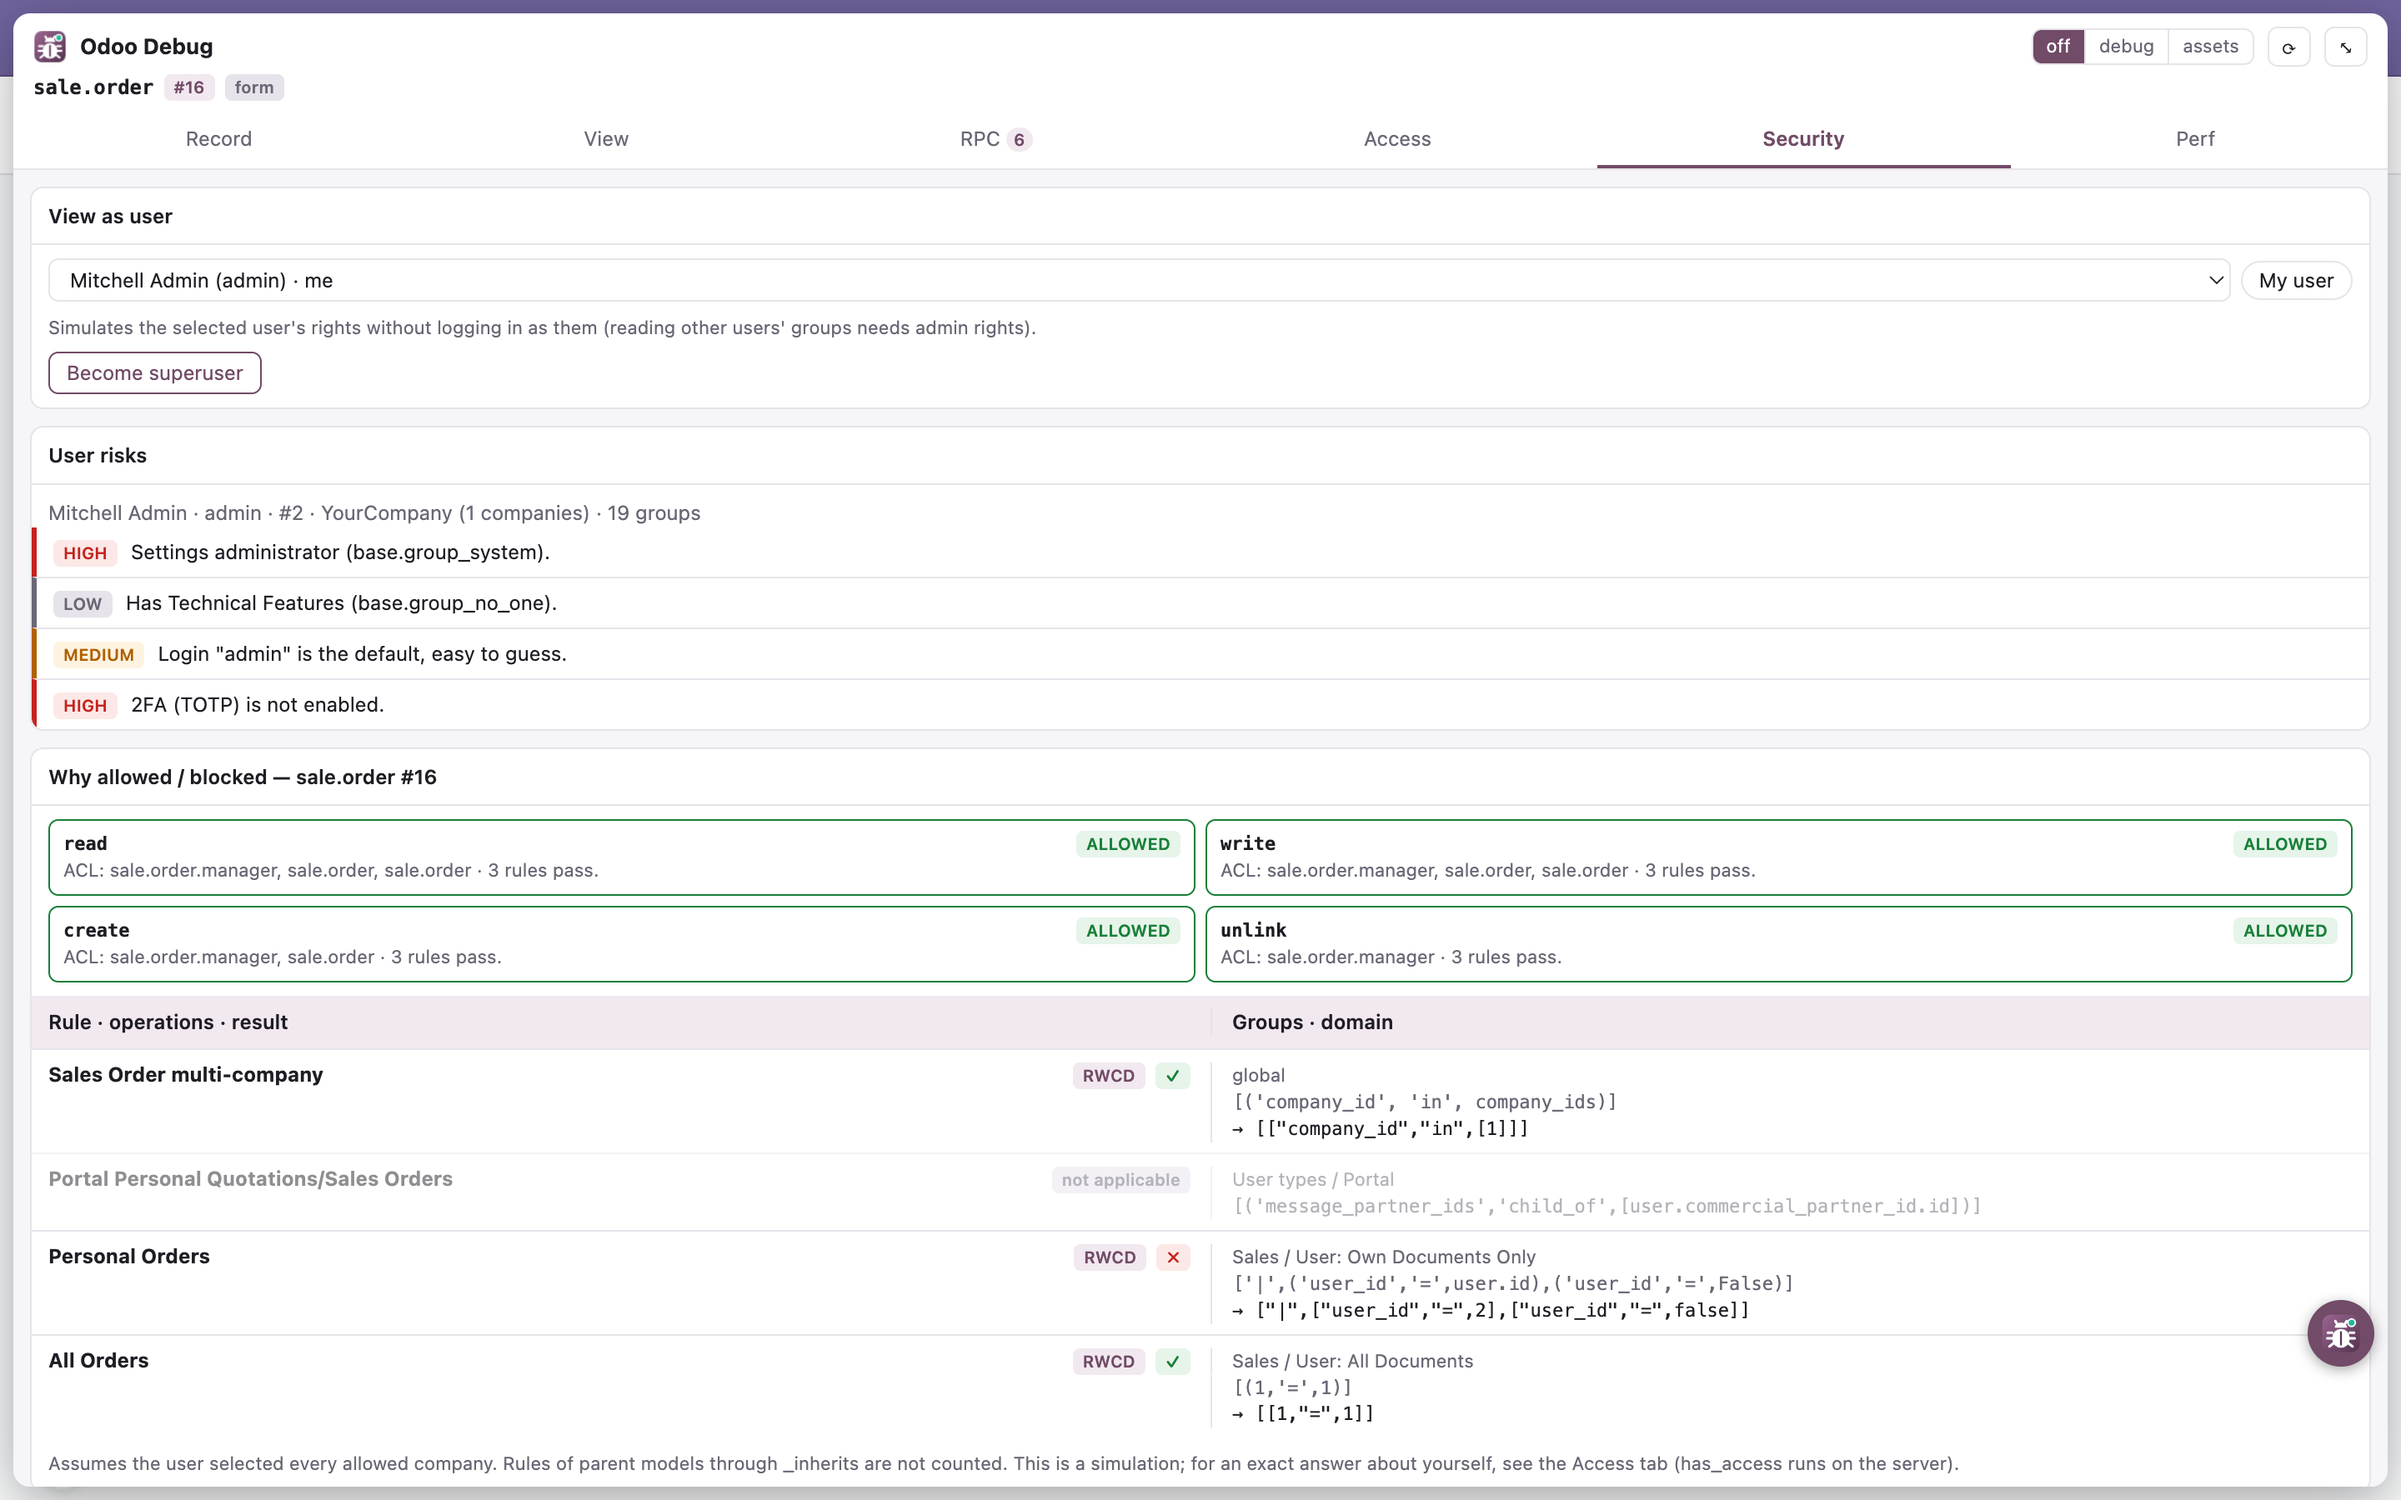
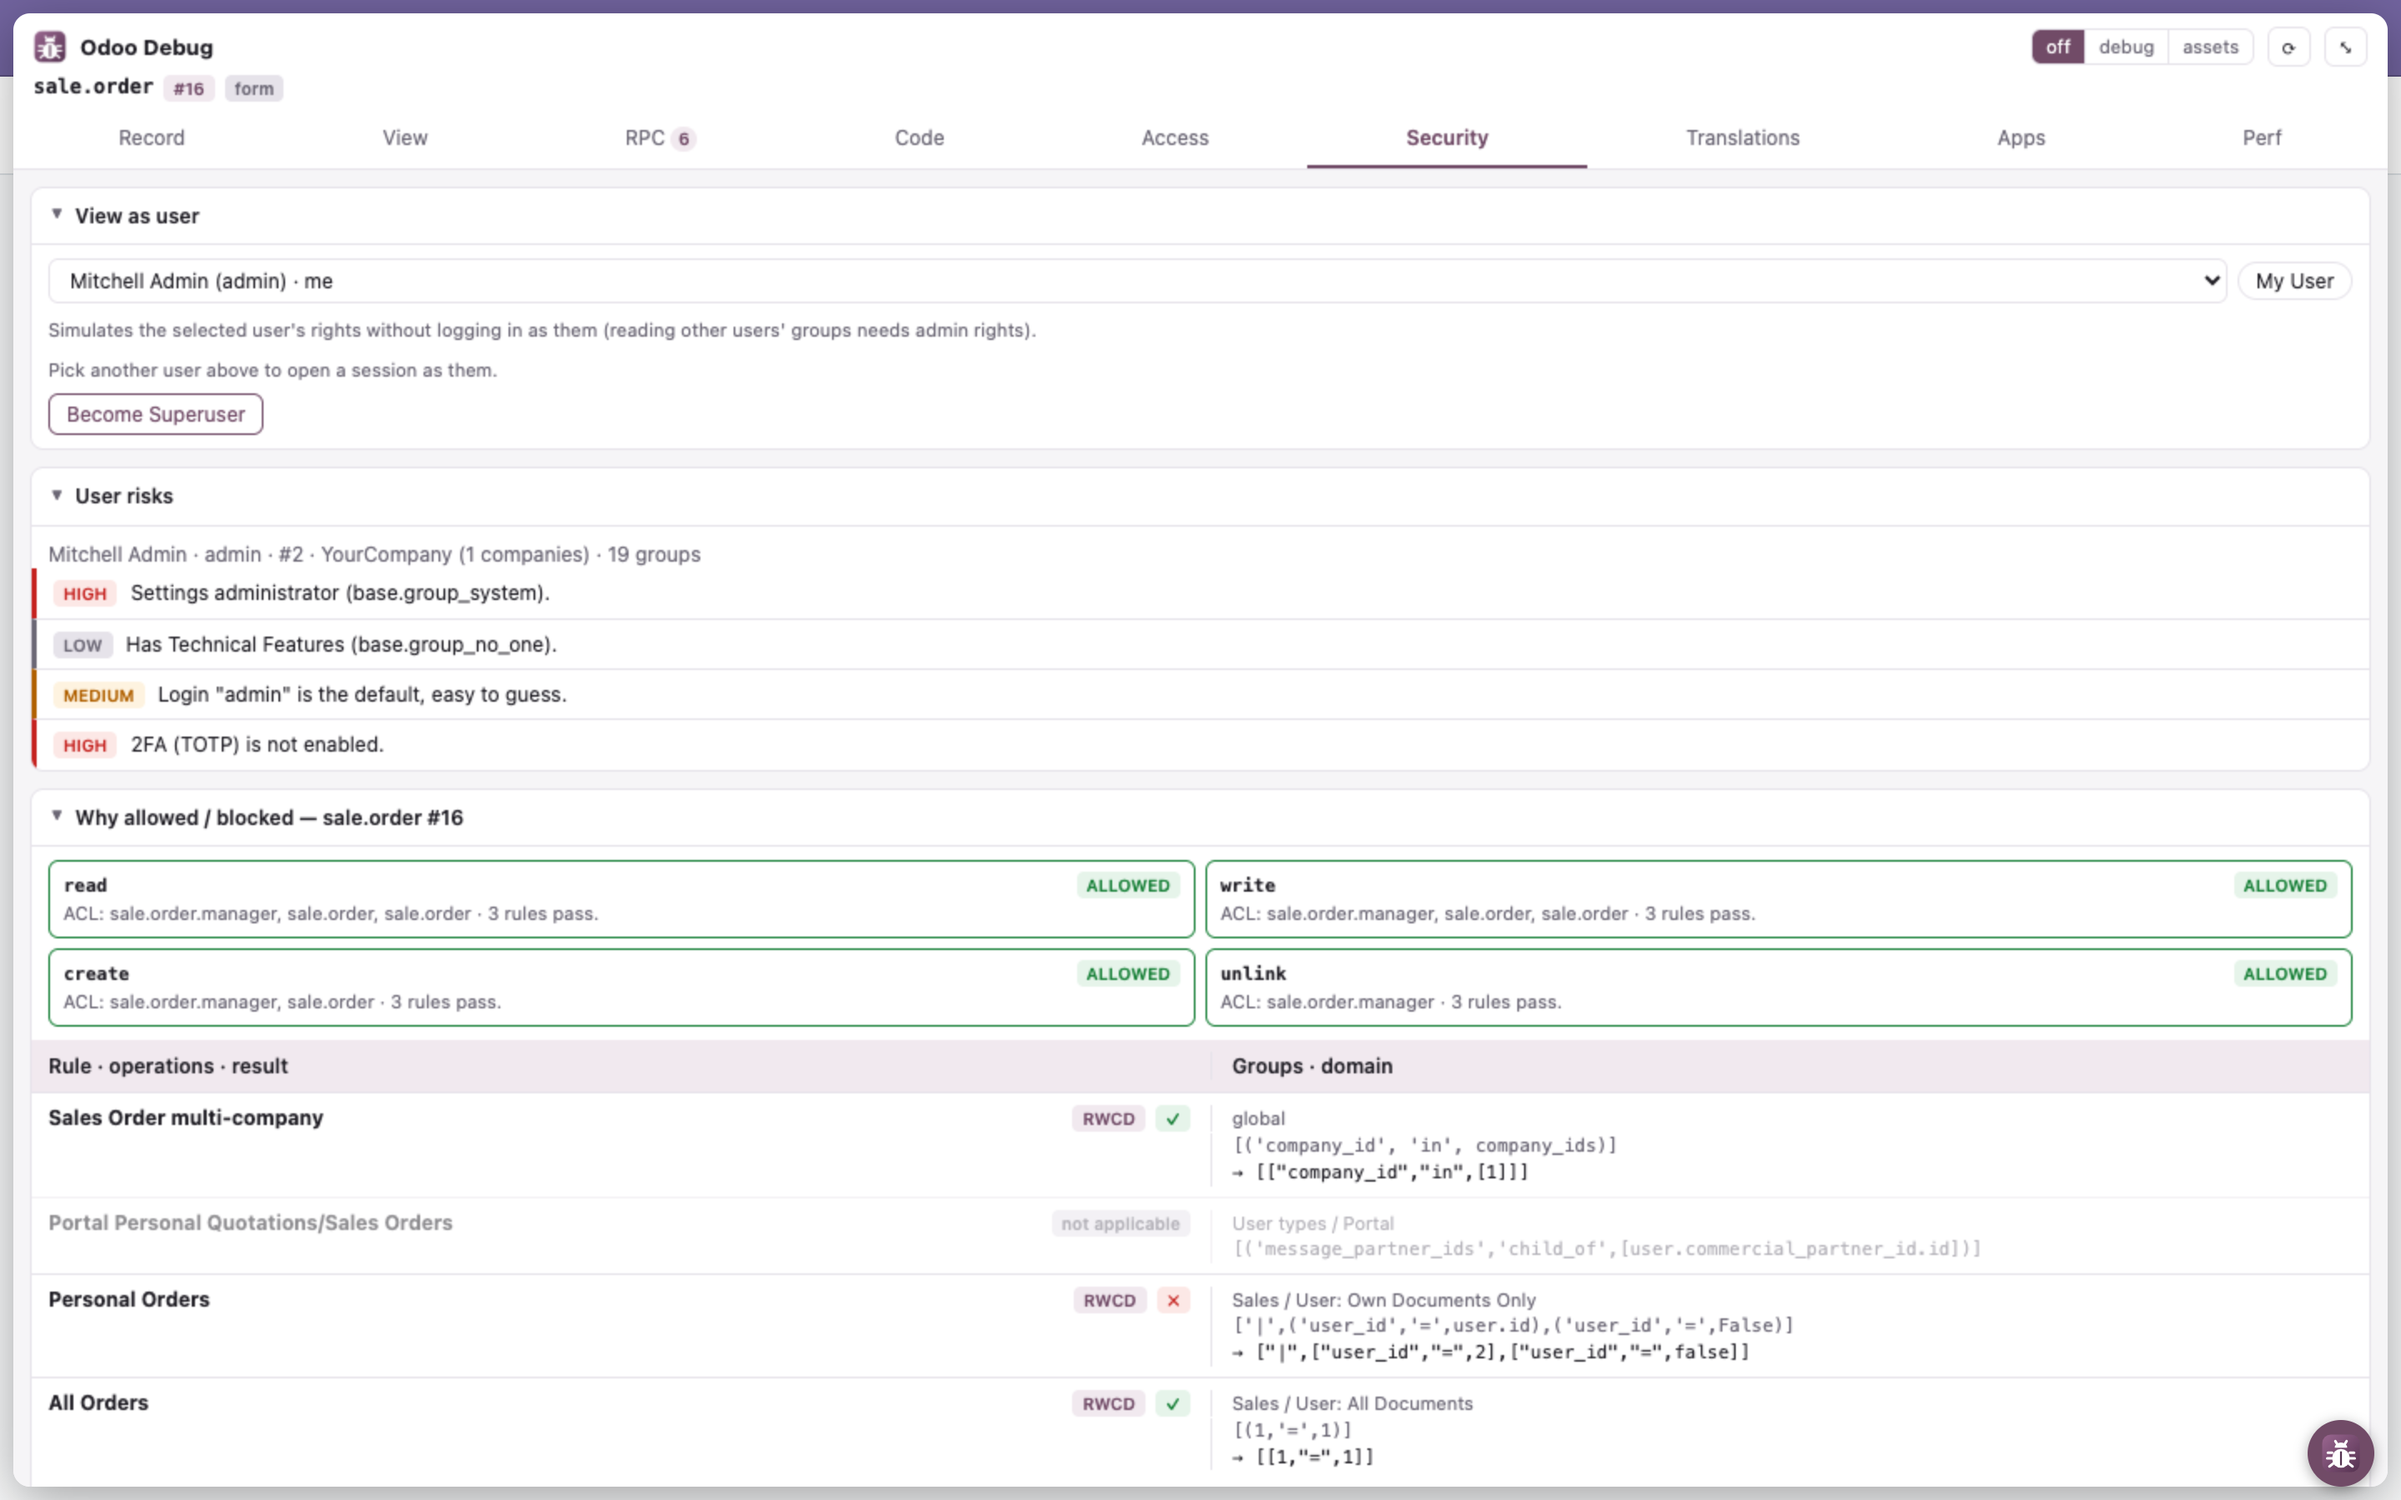
Retake the screenshots of the current panel, add the Code tab's
- tools/screenshots.mjs (npm run screenshots): every image in
  website/screenshots/ taken from a real Odoo 18 with Sales + CRM demo
  data (e2e/compose.yml, ODOO_MODULES / ODOO_ARGS), 1440x900 at 2x, the
  same shots as before: panel on the bottom edge, 9 tabs, collapsible
  cards, icon without the dot. The overview's light / dark diagonal is
  composited in the browser, no image tool needed.
- New side-code.png (ORM Console with a search, prints and the result
  table) in both READMEs and on the website ("Seven tabs").
- e2e/odoo.mjs: login, opening a form and the panel, shared by the e2e
  test and the screenshot script.
- Panel clicks go through element.click(): Puppeteer misplaces mouse
  clicks in an iframe inside a closed shadow root, so the e2e test
  could pass without switching tabs; it now checks each tab is shown.

diff --git a/website/index.html b/website/index.html
@@ -272,8 +272,8 @@
     <span class="label" data-l="en">Features</span><span class="label" data-l="vi">Tính năng</span>
     <h2 data-l="en">Developer mode shows what.<br>Odoo Debug shows why.</h2>
     <h2 data-l="vi">Developer mode cho thấy cái gì.<br>Odoo Debug cho thấy vì sao.</h2>
-    <p class="sub" data-l="en">Six tabs for what you usually dig out of the source code, the database or the server log.</p>
-    <p class="sub" data-l="vi">Sáu tab cho những thứ bạn thường phải lục trong source code, database hay log server.</p>
+    <p class="sub" data-l="en">Seven tabs for what you usually dig out of the source code, the database or the server log.</p>
+    <p class="sub" data-l="vi">Bảy tab cho những thứ bạn thường phải lục trong source code, database hay log server.</p>
     <div class="feat">
       <div class="feat-list" role="tablist" aria-orientation="vertical">
         <div class="item">
@@ -287,6 +287,10 @@
         <div class="item">
           <button role="tab" id="t-rpc" aria-selected="false" aria-controls="w-rpc"><span class="t">RPC</span><span class="h" data-l="en">Every call, from page load</span><span class="h" data-l="vi">Mọi lời gọi, từ lúc tải trang</span></button>
           <div class="panel"><ul data-l="en"><li>Live log of JSON-RPC and JSON-2 calls with timing</li><li>Errors with the full Python traceback</li><li>“Why was it blocked?” jumps to Security for <code>AccessError</code>s</li></ul><ul data-l="vi"><li>Nhật ký trực tiếp JSON-RPC và JSON-2 kèm thời gian</li><li>Lỗi kèm đầy đủ traceback Python</li><li>“Vì sao bị chặn?” nhảy sang Security khi gặp <code>AccessError</code></li></ul></div>
+        </div>
+        <div class="item">
+          <button role="tab" id="t-code" aria-selected="false" aria-controls="w-code"><span class="t">Code</span><span class="h" data-l="en">The ORM, as the logged-in user</span><span class="h" data-l="vi">ORM, dưới quyền user đang đăng nhập</span></button>
+          <div class="panel"><ul data-l="en"><li>JavaScript with an ORM-like <code>env</code>: <code>search</code>, <code>read</code>, <code>mapped</code>, any public method</li><li>Fields read like in Python: <code>rec.partner_id.name</code></li><li>Runs with the page's session: that user's ACLs, record rules and companies apply</li><li>Read-only by default; results as a table, with every call made</li></ul><ul data-l="vi"><li>JavaScript với <code>env</code> kiểu ORM: <code>search</code>, <code>read</code>, <code>mapped</code>, mọi method public</li><li>Đọc field như Python: <code>rec.partner_id.name</code></li><li>Chạy bằng phiên của trang: áp ACL, record rule và công ty của user đó</li><li>Mặc định chỉ đọc; kết quả dạng bảng, kèm mọi lời gọi</li></ul></div>
         </div>
         <div class="item">
           <button role="tab" id="t-access" aria-selected="false" aria-controls="w-access"><span class="t">Access</span><span class="h" data-l="en">Your session, your rights</span><span class="h" data-l="vi">Phiên của bạn, quyền của bạn</span></button>
@@ -305,6 +309,7 @@
         <div class="window" id="w-record" role="tabpanel" aria-labelledby="t-record"><div class="bar"><i></i><i></i><i></i><span>Record</span></div><img src="screenshots/full-record.png" width="2880" height="1800" loading="lazy" alt="Record tab"></div>
         <div class="window" id="w-view" role="tabpanel" aria-labelledby="t-view" hidden><div class="bar"><i></i><i></i><i></i><span>View</span></div><img src="screenshots/side-view.png" width="2880" height="1800" loading="lazy" alt="View tab"></div>
         <div class="window" id="w-rpc" role="tabpanel" aria-labelledby="t-rpc" hidden><div class="bar"><i></i><i></i><i></i><span>RPC</span></div><img src="screenshots/side-rpc.png" width="2880" height="1800" loading="lazy" alt="RPC tab"></div>
+        <div class="window" id="w-code" role="tabpanel" aria-labelledby="t-code" hidden><div class="bar"><i></i><i></i><i></i><span>Code</span></div><img src="screenshots/side-code.png" width="2880" height="1800" loading="lazy" alt="Code tab"></div>
         <div class="window" id="w-access" role="tabpanel" aria-labelledby="t-access" hidden><div class="bar"><i></i><i></i><i></i><span>Access</span></div><img src="screenshots/full-access.png" width="2880" height="1800" loading="lazy" alt="Access tab"></div>
         <div class="window" id="w-security" role="tabpanel" aria-labelledby="t-security" hidden><div class="bar"><i></i><i></i><i></i><span>Security</span></div><img src="screenshots/full-security.png" width="2880" height="1800" loading="lazy" alt="Security tab"></div>
         <div class="window" id="w-perf" role="tabpanel" aria-labelledby="t-perf" hidden><div class="bar"><i></i><i></i><i></i><span>Perf</span></div><img src="screenshots/full-perf.png" width="2880" height="1800" loading="lazy" alt="Perf tab"></div>

diff --git a/README.vi.md b/README.vi.md
@@ -50,6 +50,9 @@ Ngoài ra: bấm vào tên field, model hay xmlid trong bảng để copy, và <
   </tr>
 </table>
 
+**Code**: gọi ORM bằng JavaScript, dưới quyền user đang đăng nhập.
+<img src="website/screenshots/side-code.png" alt="Tab Code: một lệnh search ORM và bảng kết quả">
+
 **Record** ở chế độ toàn màn hình: từ 760px trở lên, danh sách thành bảng 2 cột với tiêu đề cố định.
 <img src="website/screenshots/full-record.png" alt="Tab Record toàn màn hình">
 
@@ -141,6 +144,16 @@ npm run e2e
 
 `docker compose -f e2e/compose.yml down -v` xoá database; chạy lệnh này trước khi đổi `ODOO_VERSION`.
 
+Ảnh trong `website/screenshots/` (README này và website) được chụp từ cùng bộ dựng đó, với dữ liệu demo của Sales và CRM; chụp lại sau mỗi lần đổi giao diện:
+
+```bash
+ODOO_VERSION=18 ODOO_MODULES=sale_management,crm ODOO_ARGS= docker compose -f e2e/compose.yml up -d --wait
+```
+
+```bash
+npm run screenshots
+```
+
 ### Cấu trúc dự án
 
 ```
@@ -161,8 +174,9 @@ extension/                 chính extension: đúng những gì có trong file z
       logic.js             logic thuần, không chrome.* / DOM
 website/                   trang giới thiệu (GitHub Pages); screenshots/ dùng chung với README
 tests/                     *.test.mjs, mỗi module logic một file
-e2e/                       panel.e2e.mjs (Puppeteer) + compose.yml (Odoo 18 / 19 + PostgreSQL)
+e2e/                       panel.e2e.mjs (Puppeteer) + compose.yml (Odoo 18 / 19 + PostgreSQL) + odoo.mjs (đăng nhập, mở panel)
 tools/i18n.mjs             npm run i18n: trích chuỗi → .pot, gộp vào mọi .po
+tools/screenshots.mjs      npm run screenshots: chụp lại website/screenshots/*.png từ Odoo thật
 ```
 
 Các đường dẫn bên dưới tính từ `extension/`.

diff --git a/README.md b/README.md
@@ -54,6 +54,9 @@ page to copy its technical name.
   </tr>
 </table>
 
+**Code**: the ORM from JavaScript, run as the logged-in user.
+<img src="website/screenshots/side-code.png" alt="Code tab: an ORM search and its result table">
+
 **Record** in full screen: from 760px wide, lists become 2-column tables with sticky headers.
 <img src="website/screenshots/full-record.png" alt="Record tab in full screen">
 
@@ -159,6 +162,16 @@ npm run e2e
 
 `docker compose -f e2e/compose.yml down -v` drops the database; do it before switching `ODOO_VERSION`.
 
+The screenshots in `website/screenshots/` (this README and the website) come from the same setup, with Sales and CRM demo data; retake them after a UI change:
+
+```bash
+ODOO_VERSION=18 ODOO_MODULES=sale_management,crm ODOO_ARGS= docker compose -f e2e/compose.yml up -d --wait
+```
+
+```bash
+npm run screenshots
+```
+
 ### Project structure
 
 ```
@@ -179,8 +192,9 @@ extension/                 the extension itself: exactly what the release zip co
       logic.js             pure logic, no chrome.* / DOM
 website/                   project website; screenshots/ is shared with this README
 tests/                     *.test.mjs, one per logic module
-e2e/                       panel.e2e.mjs (Puppeteer) + compose.yml (Odoo 18 / 19 + PostgreSQL)
+e2e/                       panel.e2e.mjs (Puppeteer) + compose.yml (Odoo 18 / 19 + PostgreSQL) + odoo.mjs (login, open the panel)
 tools/i18n.mjs             npm run i18n: extract strings → .pot, merge into every .po
+tools/screenshots.mjs      npm run screenshots: retake website/screenshots/*.png from a real Odoo
 ```
 
 Paths below are relative to `extension/`.
